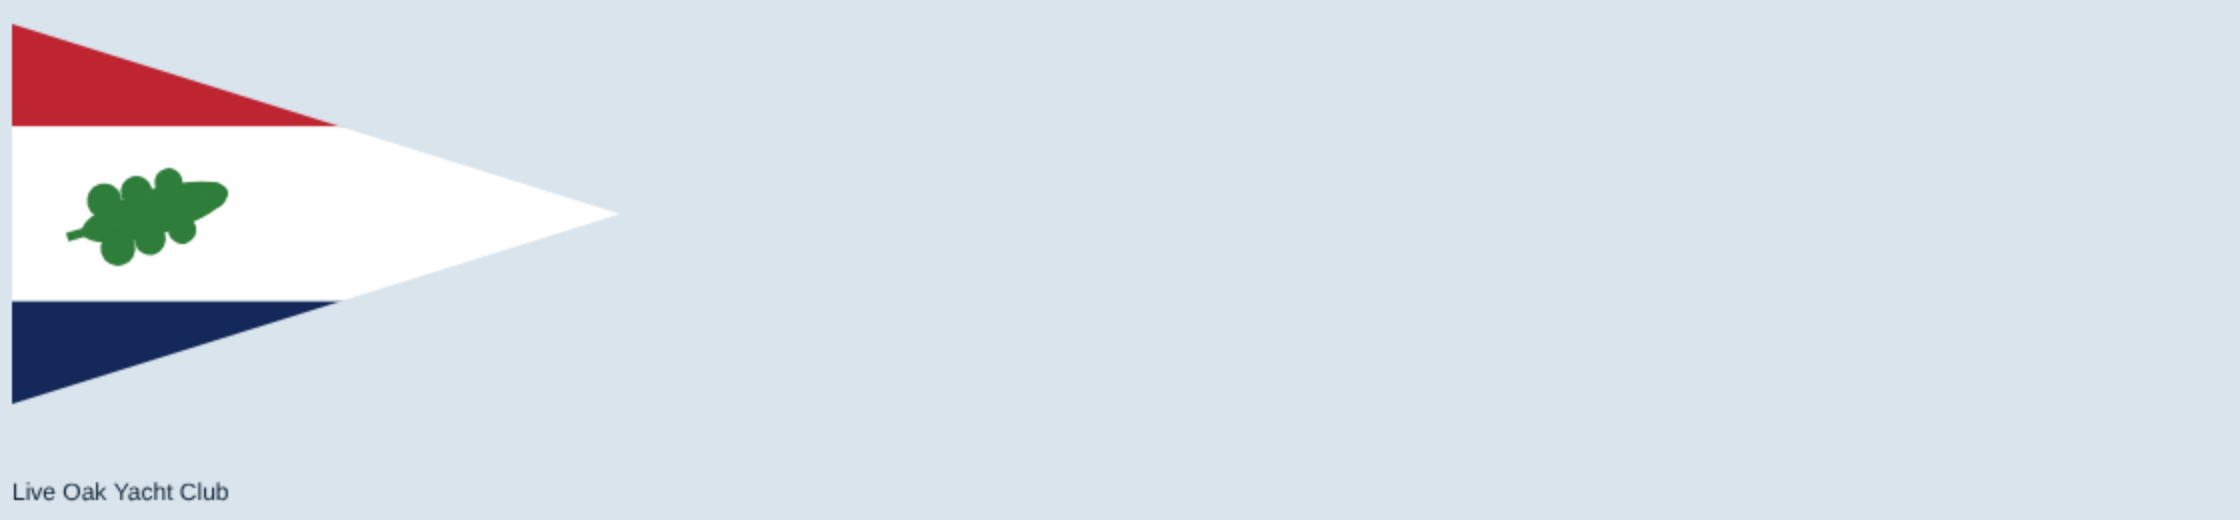
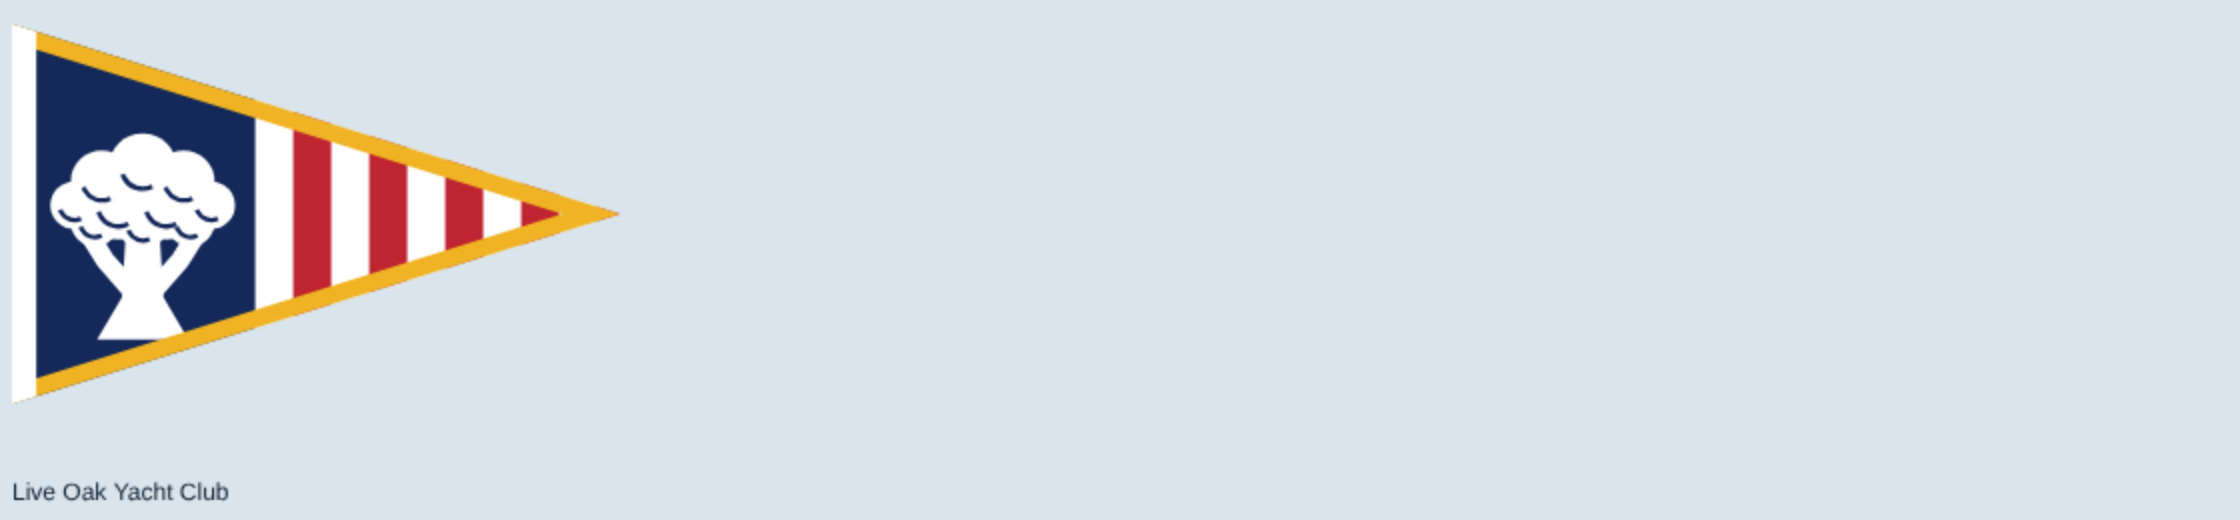
Burgees: Live Oak on the owner's template (blue hoist panel with a white oak, red and white stripes, gold border, white hoist band)
Claude-Session: https://claude.ai/code/session_012Uu5QjYRsEpBxuz7xgHWhs

Changed region(s): [[0.0, 0.0308, 0.2812, 0.7692]]

diff --git a/src/render/burgeeArt.ts b/src/render/burgeeArt.ts
@@ -81,15 +81,20 @@ export const PARODY_BURGEES: Burgee[] = [
     draw: (g, W, H) => { fill(g, W, H, '#2fa04a'); rect(g, '#f6d21a', 0, H * 0.7, W, H * 0.3); dot(g, '#f6d21a', W * 0.2, H * 0.46, H * 0.2); } },
   { id: 'emyc', shape: 'pennant', ratio: 1.5, // small and informal: sky, reed green, mud; a tide line
     draw: (g, W, H) => { fill(g, W, H, '#8ec7e8'); rect(g, '#6b5338', 0, H * 0.62, W, H * 0.38); rect(g, '#4c7a3a', 0, H * 0.5, W, H * 0.12); } },
-  { id: 'eyc', shape: 'pennant', ratio: 1.6, // classic, 1890: red over white over dark blue, in bands that run to the point; one green oak leaf, lobed, on the white
-    draw: (g, W, H) => { rect(g, RED, 0, 0, W, H * 0.27); rect(g, WHITE, 0, H * 0.27, W, H * 0.46); rect(g, NAVY, 0, H * 0.73, W, H * 0.27);
-      const G = '#2f7d3a', L = H * 0.4, ax = W * 0.115, ay = H * 0.55;
-      g.save(); g.translate(ax, ay); g.rotate(-0.28);
-      rect(g, G, -L * 0.1, -H * 0.012, L * 0.14, H * 0.024); // the stem
-      oval(g, G, L * 0.5, 0, L * 0.5, H * 0.06); // the blade
-      for (const t of [0.2, 0.42, 0.64]) for (const s of [-1, 1]) dot(g, G, L * t, s * H * 0.065, H * (0.05 - t * 0.02)); // the lobes
-      dot(g, G, L * 0.9, 0, H * 0.035);
-      g.restore(); } },
+  { id: 'eyc', shape: 'pennant', ratio: 1.6, // classic, 1890 (the owner's template): a dark-blue hoist panel bearing a white oak, then red and white stripes to the point, a gold border, a white hoist band
+    draw: (g, W, H) => { const u = H, X0 = W * 0.215, BORDER = '#f0b323';
+      fill(g, W, H, WHITE);
+      rect(g, NAVY, 0, 0, W * 0.4, H); // the hoist panel
+      for (let k = 0; W * (0.4 + (2 * k + 1) * 0.0625) < W; k++) rect(g, RED, W * (0.4 + (2 * k + 1) * 0.0625), 0, W * 0.0625, H); // the stripes, red and white
+      // the oak, in white: a broad spreading crown (a lobed cloud), a short thick trunk, limbs reaching out, roots
+      type T3 = [number, number, number];
+      const crown: T3[] = [[0, -0.08, 0.1], [-0.12, -0.04, 0.09], [0.12, -0.04, 0.09], [-0.2, 0.03, 0.07], [0.2, 0.03, 0.07], [-0.07, 0.03, 0.1], [0.07, 0.03, 0.1], [-0.14, 0.08, 0.07], [0.14, 0.08, 0.07], [0, 0.09, 0.07]];
+      const k = 0.9, cy = H * 0.45, X = X0 - 0.0 * u;
+      for (const [dx, dy, r] of crown) dot(g, WHITE, X + dx * k * u, cy + dy * k * u, r * k * u);
+      for (const s of [-1, 1]) stroke(g, WHITE, u * 0.05, [X + s * 0.03 * u, H * 0.7], [X + s * 0.1 * u, H * 0.62], [X + s * 0.15 * u, H * 0.54]); // the limbs, rising into the crown
+      poly(g, WHITE, [X - 0.045 * u, H * 0.56], [X + 0.045 * u, H * 0.56], [X + 0.055 * u, H * 0.72], [X + 0.12 * u, H * 0.83], [X - 0.12 * u, H * 0.83], [X - 0.055 * u, H * 0.72]); // the trunk, flaring to its roots
+      for (const [dx, dy, r] of crown) { g.strokeStyle = NAVY; g.lineWidth = u * 0.012; g.beginPath(); g.arc(X + dx * k * u, cy + dy * k * u, r * k * u * 0.62, 0.35 * Math.PI, 0.9 * Math.PI); g.stroke(); } // the clusters of leaves, as lines
+      border(g, W, H, 'pennant', BORDER, 0.045); rect(g, WHITE, 0, 0, W * 0.04, H); } },
   { id: 'oyc', shape: 'pennant', ratio: 1.5, // established: navy, white and green; one oak tree
     draw: (g, W, H) => { fill(g, W, H, NAVY); rect(g, WHITE, W * 0.18, H * 0.56, W * 0.04, H * 0.2); dot(g, '#2e8b3e', W * 0.2, H * 0.42, H * 0.17); } },
   { id: 'iyc', shape: 'pennant', ratio: 2, // modern, thrifty: sand, white and teal stripes
